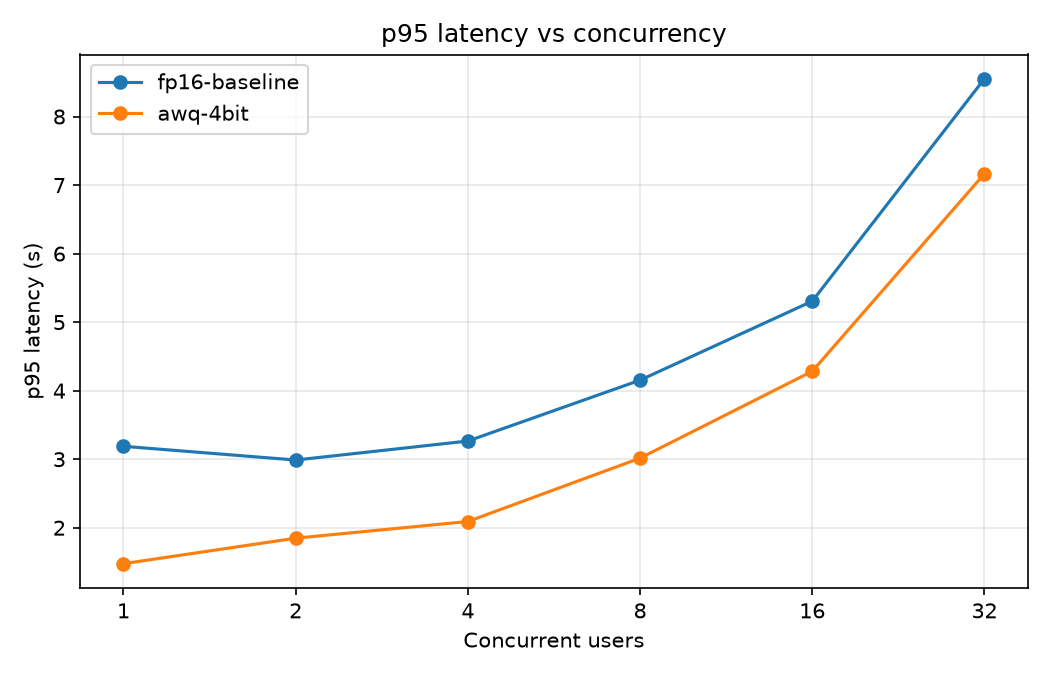
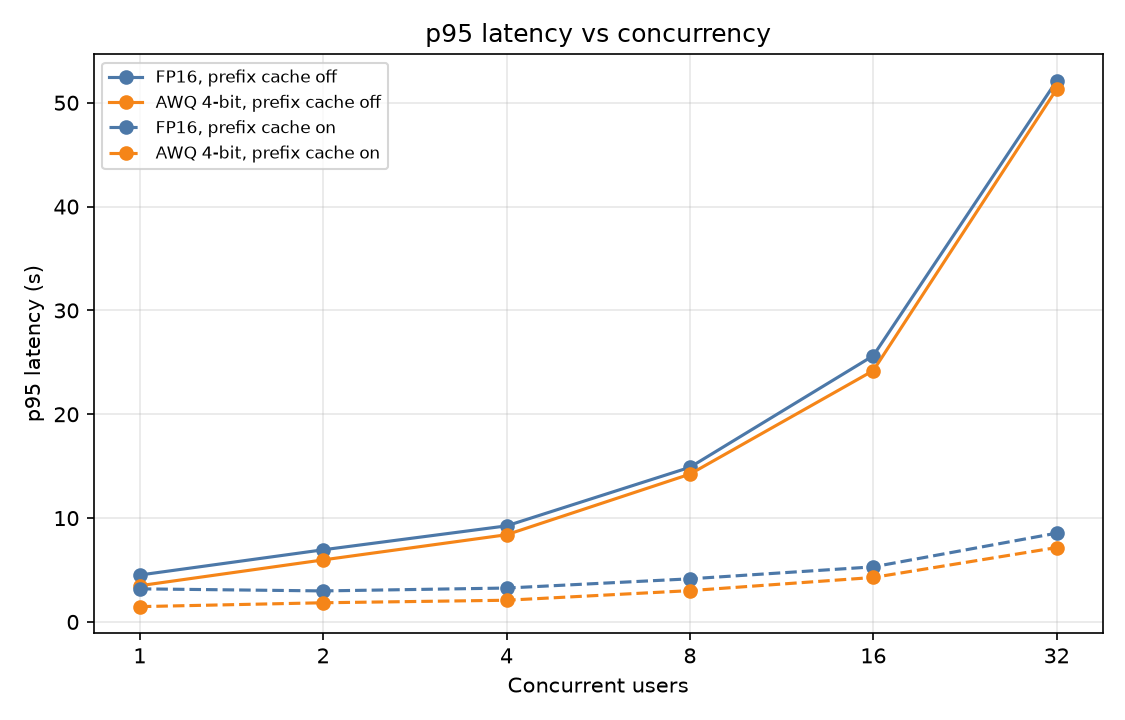
Update charts and gate for no-cache runs

diff --git a/bench/plot.py b/bench/plot.py
@@ -7,7 +7,15 @@ RESULTS = ROOT / "results"
 OUT = ROOT / "docs"
 OUT.mkdir(exist_ok=True)
 
-VARIANTS = ["fp16-baseline", "awq-4bit"]
+# run name -> (legend label, color, line style)
+STYLE = {
+    "fp16-nocache": ("FP16, prefix cache off", "#4c78a8", "-"),
+    "awq-nocache": ("AWQ 4-bit, prefix cache off", "#f58518", "-"),
+    "fp16-baseline": ("FP16, prefix cache on", "#4c78a8", "--"),
+    "awq-4bit": ("AWQ 4-bit, prefix cache on", "#f58518", "--"),
+}
+# MMLU accuracy does not depend on prefix caching, so only two eval files exist
+ACC_RUNS = {"fp16-baseline": "FP16", "awq-4bit": "AWQ 4-bit"}
 # Weight memory from the vLLM "Model loading took" log lines
 WEIGHT_GIB = {"fp16-baseline": 2.98, "awq-4bit": 1.1}
 LEVELS = [1, 2, 4, 8, 16, 32]
@@ -18,19 +26,21 @@ def load(name):
         return json.load(f)
 
 
-bench = {v: load(f"{v}.json") for v in VARIANTS}
-evals = {v: load(f"eval-{v}.json") for v in VARIANTS}
+bench = {v: load(f"{v}.json") for v in STYLE}
+evals = {v: load(f"eval-{v}.json") for v in ACC_RUNS}
 
 
 def line_chart(metric, ylabel, title, fname):
-    plt.figure(figsize=(7, 4.5))
-    for v in VARIANTS:
+    plt.figure(figsize=(7.5, 4.8))
+    for v, (label, color, ls) in STYLE.items():
         rows = bench[v]["results"]
         plt.plot(
             [r["concurrency"] for r in rows],
             [r[metric] for r in rows],
             marker="o",
-            label=v,
+            color=color,
+            linestyle=ls,
+            label=label,
         )
     plt.xscale("log", base=2)
     plt.xticks(LEVELS, LEVELS)
@@ -38,7 +48,7 @@ def line_chart(metric, ylabel, title, fname):
     plt.ylabel(ylabel)
     plt.title(title)
     plt.grid(alpha=0.3)
-    plt.legend()
+    plt.legend(fontsize=8)
     plt.tight_layout()
     plt.savefig(OUT / fname, dpi=150)
     plt.close()
@@ -50,9 +60,9 @@ line_chart("ttft_p95", "p95 TTFT (s)", "p95 time to first token vs concurrency",
 
 # Accuracy with 95% CI, labelled with weight memory
 plt.figure(figsize=(6, 4.5))
-labels = [f"{v}\n{WEIGHT_GIB[v]:.2f} GiB weights" for v in VARIANTS]
-accs = [evals[v]["accuracy"] * 100 for v in VARIANTS]
-cis = [evals[v]["ci95"] * 100 for v in VARIANTS]
+labels = [f"{name}\n{WEIGHT_GIB[v]:.2f} GiB weights" for v, name in ACC_RUNS.items()]
+accs = [evals[v]["accuracy"] * 100 for v in ACC_RUNS]
+cis = [evals[v]["ci95"] * 100 for v in ACC_RUNS]
 plt.bar(labels, accs, yerr=cis, capsize=6, color=["#4c78a8", "#f58518"])
 plt.ylabel("MMLU accuracy (%)")
 plt.title("Accuracy vs model size (1,000 questions, 95% CI)")

diff --git a/bench/gate.py b/bench/gate.py
@@ -13,9 +13,11 @@ def load(name):
         return json.load(f)
 
 
-def main(baseline, candidate):
+def main(baseline, candidate, eval_baseline=None, eval_candidate=None):
+    eval_baseline = eval_baseline or baseline
+    eval_candidate = eval_candidate or candidate
     bb, cb = load(f"{baseline}.json"), load(f"{candidate}.json")
-    be, ce = load(f"eval-{baseline}.json"), load(f"eval-{candidate}.json")
+    be, ce = load(f"eval-{eval_baseline}.json"), load(f"eval-{eval_candidate}.json")
 
     # Quality: paired comparison on the same questions
     a, b = be["correct"], ce["correct"]
@@ -52,4 +54,4 @@ def main(baseline, candidate):
 
 
 if __name__ == "__main__":
-    main(sys.argv[1], sys.argv[2])
+        main(*sys.argv[1:5])
